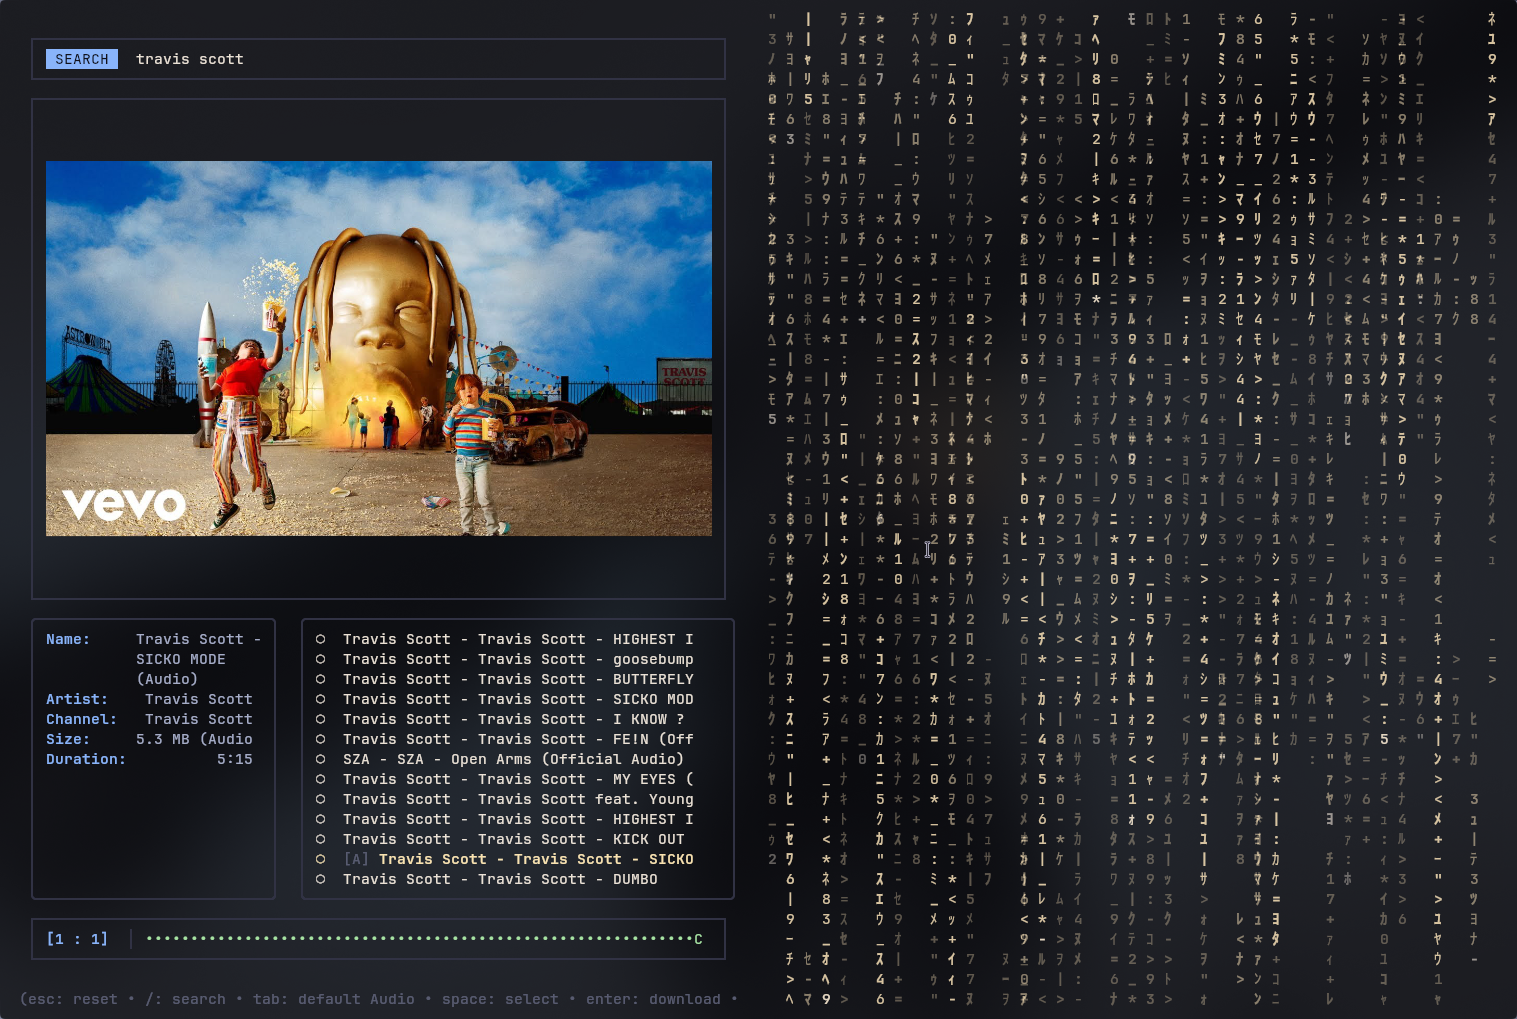
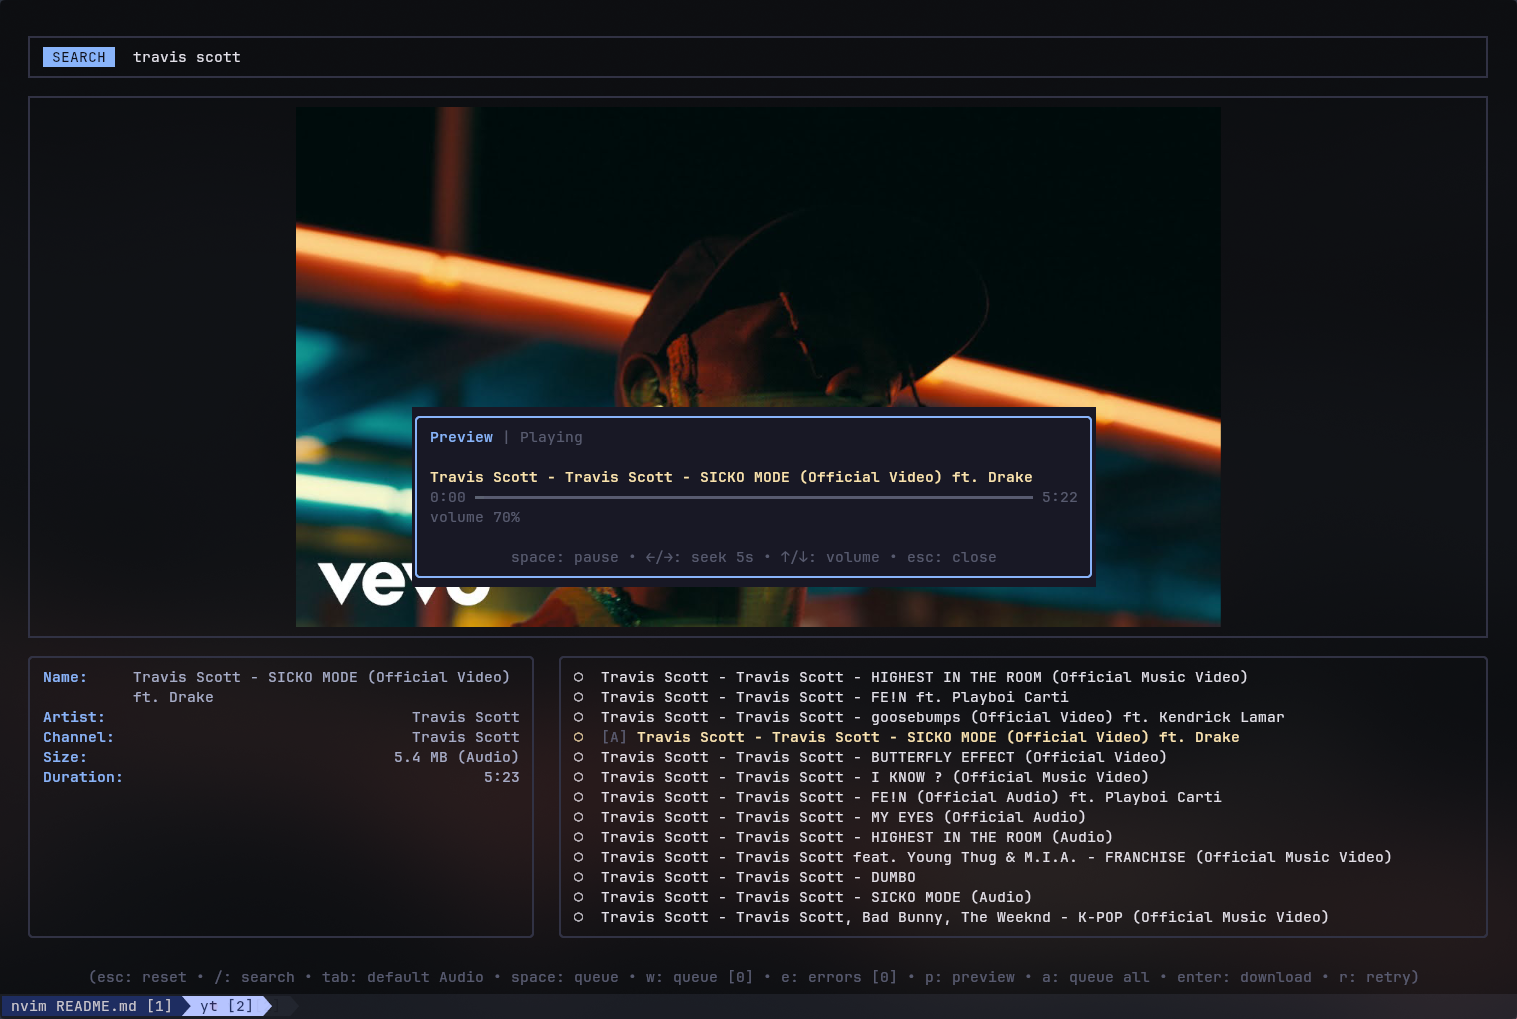
docs: preview, playlists, download options

diff --git a/internal/config/config.go b/internal/config/config.go
@@ -108,7 +108,7 @@ func stripComments(data []byte) []byte {
 }
 
 const defaultTemplate = `{
-  // Number of simultaneous yt-dlp downloads.
+	// Number of simultaneous yt-dlp downloads.
   "max_workers": 3,
 
   // "Audio" or "Video" — the default selected on startup.
@@ -145,41 +145,42 @@ const defaultTemplate = `{
   // as .lrc files. "yt-media lyrics" does the same for your whole library.
   "fetch_lyrics": true,
 
+  // Audio format for downloads: "mp3" (default), "opus", "flac" or "m4a".
+  // opus and flac need python-mutagen for embedded cover art.
+  "audio_format": "mp3",
+
+  // Cap video downloads (and video previews) at this height, e.g. 1080.
+  // 0 = best available.
+  "max_video_height": 0,
+
+  // Use a browser's cookies, e.g. "firefox" or "chrome" (yt-dlp's
+  // --cookies-from-browser). Helps with age-restricted videos and with
+  // YouTube asking you to sign in. Blank = off. Used for downloads, size
+  // lookups, playlists and previews.
+  "cookies_from_browser": "",
+
+  // Audio downloads only: cut non-music parts using SponsorBlock categories,
+  // comma-separated, e.g. "music_offtopic" or "sponsor,intro,outro".
+  // Blank = off.
+  "sponsorblock_remove": "",
+
+  // The program used for previews.
+  "preview_player": "mpv",
+
   // Where .lrc files go. Blank = a "lyrics" folder inside music_dir, mirroring
   // its folder structure.
   "lyrics_dir": "",
 
-	// Also write .srt subtitles next to downloaded videos (when they have none).
+  // Paths (relative to music_dir) to skip, matched as prefixes.
+  "lyrics_exclude": [],
+
+  // Also write .srt subtitles next to downloaded videos (when they have none).
   "lyrics_for_video": false,
 
   // Optional: a command to try when LRCLIB has nothing. {query} and {output}
   // are replaced; no shell is used. Example:
   //   "syncedlyrics {query} -o {output} --synced-only -p musixmatch"
   "lyrics_fallback_command": "",
-
-	// Paths (relative to music_dir) to skip for ALL operations (lyrics and album).
-  "music_exclude": [],
-
-  // Paths to skip exclusively during album tagging.
-  "album_exclude": [],
-
-  // Paths to skip exclusively during lyrics fetching.
-  "lyrics_exclude": [],
-	
-	// Select audio format for downloads: mp3 | opus | flac | m4a
-	"audio_format": "mp3",
-
-	// Select video quality | 0 = best; e.g. 1080
-  "max_video_height": 0,
-
-	// Select browser to fetch cookies to bypass age restriction and bot detection | e.g. "firefox" or "chrome"
-  "cookies_from_browser": "",
-
-	// Remove sponsor section from audio | e.g. "music_offtopic"
-  "sponsorblock_remove": "",
-
-	// Select player for video preview
-  "preview_player": "mpv"
 }
 `
 

diff --git a/README.md b/README.md
@@ -12,7 +12,8 @@ Search by name, paste a raw video URL, preview the thumbnail in full quality (on
 
 ## Features
 
-- **Search or paste** — type a query to search YouTube, or paste a full video URL directly and it's fetched as a single item instead of a search.
+- **Search or paste** — type a query to search YouTube, or paste a full video URL directly and it's fetched as a single item instead of a search. Paste a playlist link and its tracks are loaded as the result list; `a` queues them all.
+- **Preview before downloading** — press `p` to listen to the highlighted track in a small in-app player (audio mode) or watch it in an `mpv` window (video mode). See [Preview](#preview).
 - **Real image previews** — thumbnails render as actual high-resolution images via the Kitty graphics protocol, with an ANSI half-block fallback for other terminals.
 - **Download queue** — stage items with `space`, then review and start them from a floating queue window (`w`). Each item keeps its own Audio/Video type, and the queue survives restarts.
 - **Concurrent batches** — queued items download together through a configurable worker pool, with a progress bar for the whole batch.
@@ -20,6 +21,7 @@ Search by name, paste a raw video URL, preview the thumbnail in full quality (on
 - **Skip what you already have** — downloads are tracked in a yt-dlp archive file by video ID, so re-running a search you've already downloaded from won't re-fetch anything.
 - **Desktop notifications** — get notified when a _batch_ finishes. Only for batches above a configurable size, and (by default) only when the terminal isn't focused.
 - **Synced lyrics** — after each audio download, matching lyrics are fetched from [LRCLIB](https://lrclib.net) and saved as `.lrc` files for players like `rmpc`/`mpd` clients. A single command fetches them for your whole existing library. See [Lyrics](#lyrics).
+- **Formats and options** — choose the audio format (mp3, opus, flac, m4a), cap video resolution, remove sponsor segments from music, and use your browser's cookies for age-restricted or rate-limited videos. See [Configuration](#configuration).
 - **Readable errors** — "Network unavailable" instead of `exit status 1`; the full output is always in `~/.cache/yt-media/debug.log`.
 - **Config file, not recompiling** — worker count, default download type, output folders, notification behavior, and more all live in one JSON file.
 
@@ -29,6 +31,8 @@ Search by name, paste a raw video URL, preview the thumbnail in full quality (on
 - [`yt-dlp`](https://github.com/yt-dlp/yt-dlp) on your `PATH`
 - [`ffmpeg`](https://ffmpeg.org/) (used by yt-dlp for audio extraction/embedding; its `ffprobe` is also used to read tags for lyrics)
 - [Kitty terminal](https://sw.kovidgoyal.net/kitty/) for high-resolution thumbnail previews. Other terminals get an ANSI fallback, but Kitty is what this is built and tested on.
+- Optional: [`mpv`](https://mpv.io/) for the `p` preview (it uses `yt-dlp` to stream, so both must be installed)
+- Optional: `python-mutagen` (Arch; `pip install mutagen` elsewhere) if you pick `opus` or `flac`, so yt-dlp can embed cover art in those formats
 - Optional: `notify-send` (Linux) or `osascript` (macOS, built-in) for batch-completion notifications
 
 ## Installation
@@ -49,7 +53,7 @@ Move the binary somewhere on your `PATH` (e.g. `~/.local/bin`) to launch it from
 
 1. Press `/` and type a search, or paste a YouTube link. Press `enter`.
 2. Move through the results with `↑`/`↓` (or `j`/`k`). The info box shows the title, artist, channel, size and duration.
-3. Press `space` to add the highlighted item to the queue. Use `tab` to switch the default type between Audio and Video.
+3. Press `space` to add the highlighted item to the queue, or `a` to queue every listed result. Use `tab` to switch the default type between Audio and Video. Press `p` to preview the highlighted item first.
 4. Press `w` to open the queue, then `enter` to download everything in it. To grab just one item, press `enter` on it in the result list.
 
 ## Configuration
@@ -99,6 +103,28 @@ On first run, a default config is written to:
   // as .lrc files. "yt-media lyrics" does the same for your whole library.
   "fetch_lyrics": true,
 
+  // Audio format for downloads: "mp3" (default), "opus", "flac" or "m4a".
+  // opus and flac need python-mutagen for embedded cover art.
+  "audio_format": "mp3",
+
+  // Cap video downloads (and video previews) at this height, e.g. 1080.
+  // 0 = best available.
+  "max_video_height": 0,
+
+  // Use a browser's cookies, e.g. "firefox" or "chrome" (yt-dlp's
+  // --cookies-from-browser). Helps with age-restricted videos and with
+  // YouTube asking you to sign in. Blank = off. Used for downloads, size
+  // lookups, playlists and previews.
+  "cookies_from_browser": "",
+
+  // Audio downloads only: cut non-music parts using SponsorBlock categories,
+  // comma-separated, e.g. "music_offtopic" or "sponsor,intro,outro".
+  // Blank = off.
+  "sponsorblock_remove": "",
+
+  // The program used for previews.
+  "preview_player": "mpv",
+
   // Where .lrc files go. Blank = a "lyrics" folder inside music_dir, mirroring
   // its folder structure.
   "lyrics_dir": "",
@@ -133,6 +159,15 @@ Kitty renders thumbnails at real pixel resolution rather than ANSI blocks, but r
 2. Set `font_shrink_delta` in your config to something above `0` (try `1.5`–`3`).
 
 This is entirely optional — leaving it at `0` (or not enabling remote control) just means thumbnails render at your terminal's normal cell density. The font size is restored when you quit.
+
+## Preview
+
+Press `p` on a result to try it before downloading.
+
+- **Audio mode** — a small player window opens over the list with the title, a progress bar, the time and the volume. A hidden `mpv` does the playing and the interface controls it. Keys: `space` pause/resume, `←`/`→` seek 5 seconds (`H`/`L` for 30), `↑`/`↓` volume, `esc`/`q`/`p` close and stop playback.
+- **Video mode** (the default type is shown in the footer; switch with `tab`) — `mpv` opens its own window and plays picture and sound there. It runs separately, so closing the interface doesn't stop it.
+
+Both modes need `mpv` and `yt-dlp` installed. If `mpv` isn't found, the footer says so. Your own `mpv.conf` is respected.
 
 ## Lyrics
 
@@ -191,12 +226,24 @@ YouTube usually doesn't know which album a song is on, so players show "Unknown 
 | `enter`          | Run the search while typing; otherwise download the highlighted item |
 | `↑`/`k`, `↓`/`j` | Move selection (wraps around the list)                               |
 | `space`          | Add/remove the highlighted item in the queue                         |
+| `a`              | Queue every listed result that isn't already queued                  |
+| `p`              | Preview the highlighted item (see [Preview](#preview))               |
 | `tab`            | Toggle default download type (Audio/Video)                           |
 | `w`              | Open the download queue window                                       |
 | `e`              | Open the error window                                                |
 | `r`              | Retry all failed downloads                                           |
 | `esc`            | Reset search/results                                                 |
 | `q` / `ctrl+c`   | Quit                                                                 |
+
+### Player window (`p`, audio mode)
+
+| Key               | Action                         |
+| ----------------- | ------------------------------ |
+| `space`           | Pause / resume                 |
+| `←`/`h`, `→`/`l`  | Seek 5 seconds back / forward  |
+| `H`, `L`          | Seek 30 seconds back / forward |
+| `↑`/`k`, `↓`/`j`  | Volume up / down               |
+| `esc` / `q` / `p` | Close and stop playback        |
 
 ### Queue window (`w`)
 
@@ -227,9 +274,9 @@ The list shows failed items first, then queued items, under a single cursor.
 
 ## How it works
 
-- Searches go through `yt-dlp --dump-json --flat-playlist ytsearch<N>:<query>`; pasted URLs skip straight to a single-item metadata fetch.
+- Searches go through `yt-dlp --dump-json --flat-playlist ytsearch<N>:<query>`; pasted video URLs skip straight to a single-item metadata fetch, and playlist URLs are listed with `--flat-playlist` (up to 200 entries).
 - Thumbnails are cached locally (`~/.cache/yt-media/thumbs`) during a session and cleared on exit.
-- Downloads run through `yt-dlp` directly — audio is extracted to MP3, video keeps the best available audio+video streams — with metadata and thumbnails embedded automatically.
+- Downloads run through `yt-dlp` directly — audio is extracted to your chosen `audio_format` (MP3 by default), video keeps the best available audio+video streams (up to `max_video_height`) — with metadata and thumbnails embedded automatically.
 - yt-dlp reports where each file ended up (`--print-to-file after_move:filepath`), which is how lyrics are attached to the right file.
 - A yt-dlp `--download-archive` file tracks completed video IDs so repeat searches don't redownload existing files.
 - Your queue and any failed downloads are saved to `~/.cache/yt-media/queue.json`, so they're still there next time you launch.
@@ -238,6 +285,8 @@ The list shows failed items first, then queued items, under a single cursor.
 
 - **`HTTP Error 403: Forbidden`** — YouTube changes often, and an outdated yt-dlp is the usual cause. Update it (`yt-dlp -U`, or through your package manager) and retry with `r`.
 - **"Network unavailable"** — yt-dlp couldn't reach YouTube. Check your connection and retry.
+- **Preview says `mpv not found`** — install `mpv` (it needs `yt-dlp` too), or set `preview_player` to another mpv-compatible program.
+- **YouTube asks you to sign in / age-restricted video** — set `cookies_from_browser` to a browser you're logged into, e.g. `"firefox"`.
 - **Anything else** — open the error window (`e`) and press `enter` for the full yt-dlp output. Everything is also logged to `~/.cache/yt-media/debug.log` (run `yt-media paths` to see it).
 
 ## License
